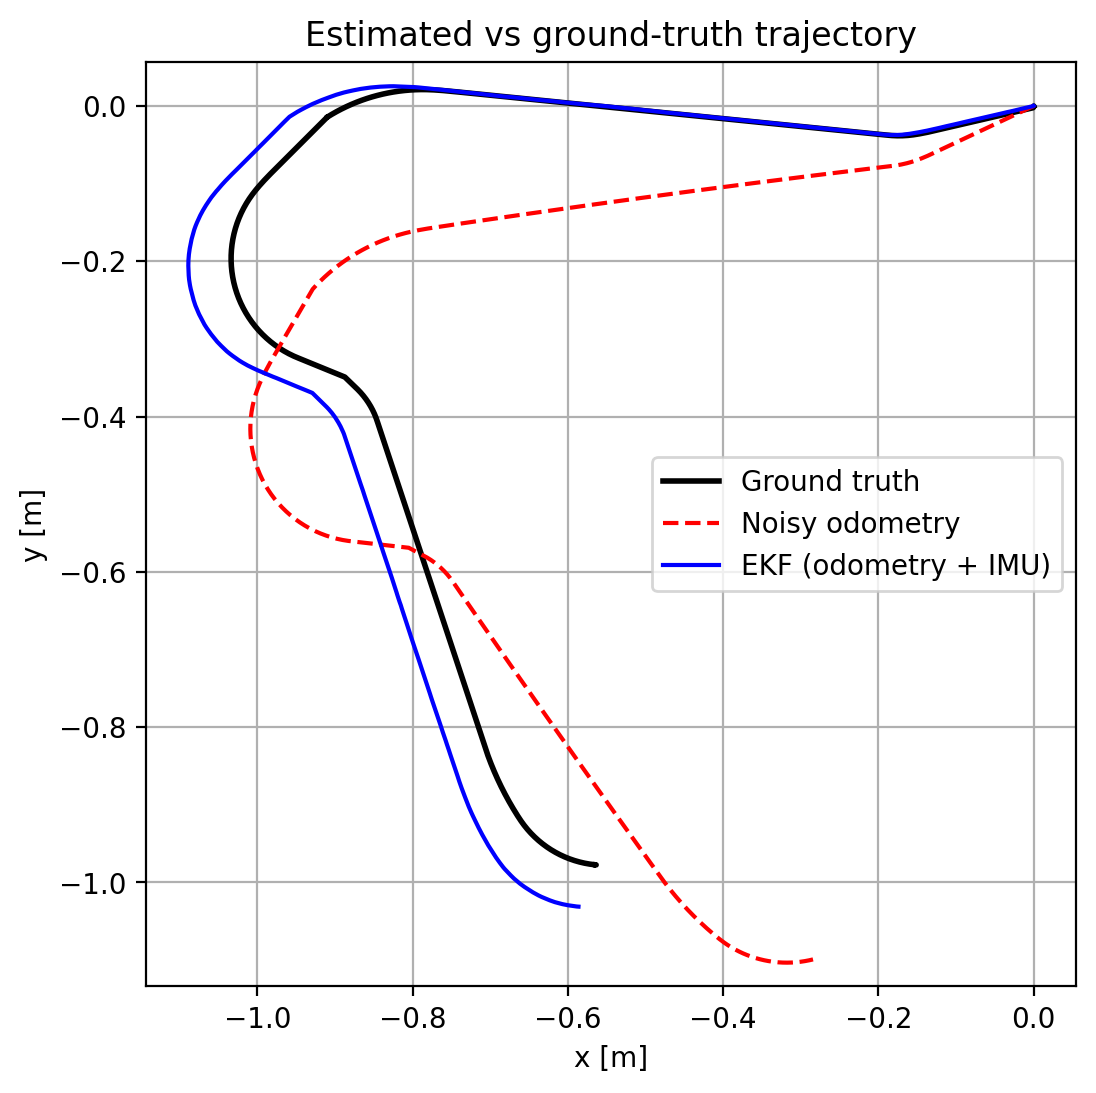
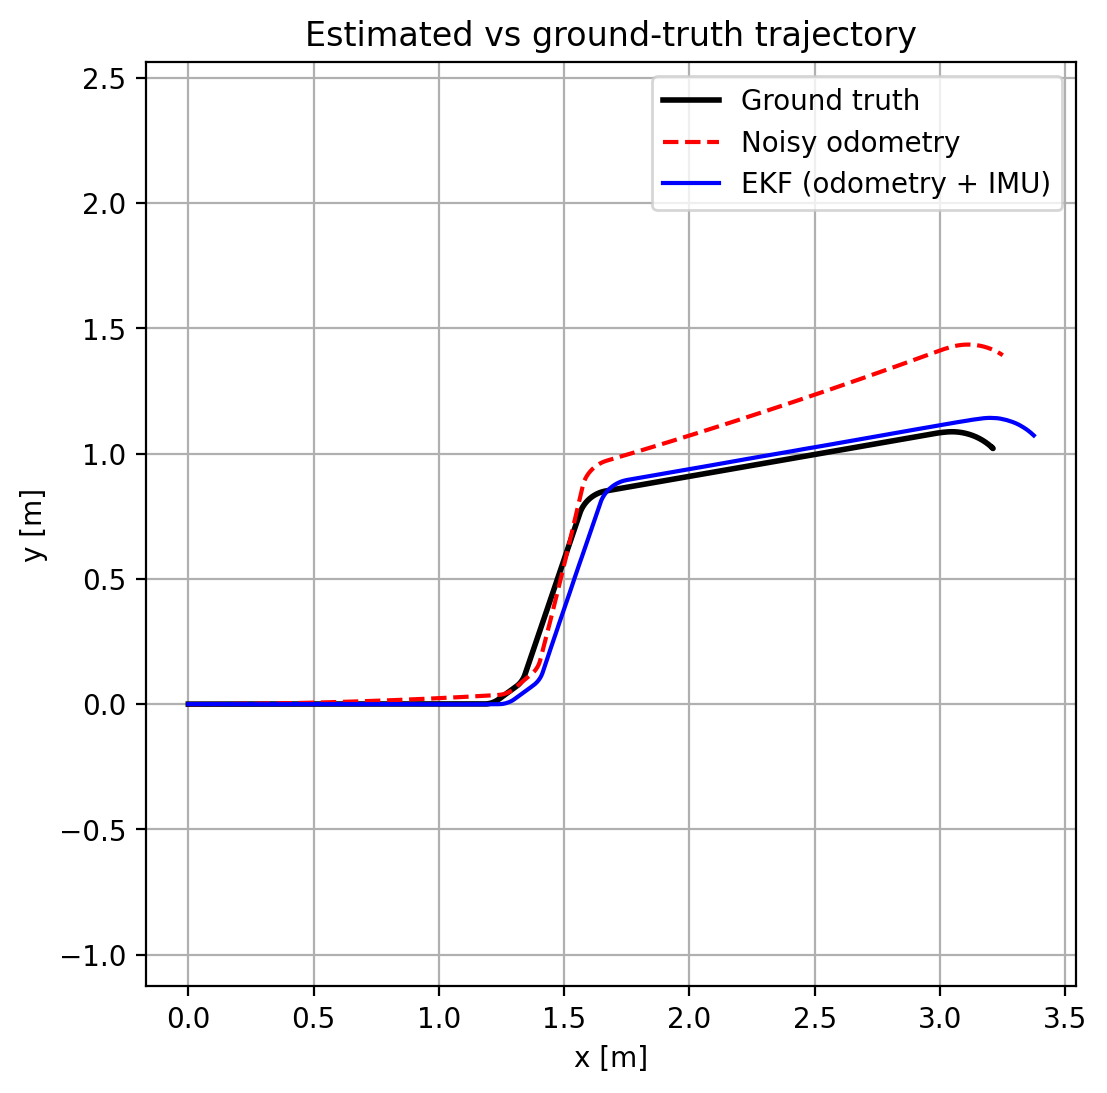
bugs: Fixing the odom bug and tested

diff --git a/README.md b/README.md
@@ -1,1 +1,278 @@
-# turtlebot_ws_as
+# Robot Localization in Simulation: EKF Fusing Noisy Odometry and IMU Yaw
+
+Assignment 1: Localization and Simulation Foundations
+Platform: ROS 2 Humble, Gazebo Classic 11, TurtleBot3 Burger
+
+
+---
+
+## 1. Summary
+
+A differential-drive TurtleBot3 Burger drives a short trajectory in the Gazebo
+`turtlebot3_world` environment. Its odometry and IMU heading are corrupted with
+known, motion-dependent errors, and an Extended Kalman Filter (EKF) estimates the
+robot pose `[x, y, yaw]` from those corrupted measurements only. The estimate is
+compared with the simulator's ground-truth pose. Ground truth is used for
+evaluation only and is never an input to the estimator.
+
+## 2. Problem Statement
+
+**Scenario:** tracking the 2D pose (position and heading) of a differential-drive
+robot in an indoor simulated environment, using noisy wheel odometry and a noisy
+IMU heading.
+
+**Why it is a problem:** wheel odometry is dead reckoning. Small errors in wheel
+size or wheel spacing accumulate with distance, so the estimated pose drifts away
+from the true pose without bound. The goal is to reduce that drift by fusing a
+second sensor and to measure how far the result is from ground truth.
+
+**Data used by the estimator**
+
+| Source | Topic | Used for |
+|---|---|---|
+| Noisy wheel odometry | `/odom_noisy` | linear and angular velocity (motion model) |
+| IMU | `/imu` | absolute heading (yaw) measurement |
+
+**Data used only for evaluation**
+
+| Source | Topic |
+|---|---|
+| Simulator ground-truth pose | `/ground_truth` |
+
+
+## 3. Package layout
+
+```
+my_localization/
+├── my_localization/
+│   ├── ekf_node.py        # EKF: predict from odometry, update from IMU yaw
+│   ├── noisy_odom.py      # adds simulated errors to odometry -> /odom_noisy
+│   └── evaluate.py        # compares estimates with ground truth, prints errors, saves plot
+├── launch/ekf_launch.py   # starts noisy_odom and ekf_node (EKF reads /odom_noisy)
+├── models/                # copy of the Burger model.sdf used (ground-truth plugin, encoder odometry)
+├── results/               # saved plots from the runs
+├── package.xml
+└── setup.py
+```
+
+## 4. Simulation Setup
+
+- **Robot and world:** TurtleBot3 Burger in `turtlebot3_world` (Gazebo Classic 11,
+  ROS 2 Humble). The robot spawns at about (-2.0, -0.5) m in the world.
+- **Odometry source:** the diff-drive plugin is set to encoder mode
+  (`<odometry_source>0</odometry_source>` in `model.sdf`). By default the plugin
+  uses the simulator's world pose instead, which would make the odometry a copy of
+  ground truth.
+- **Ground truth:** a `libgazebo_ros_p3d.so` plugin attached to `base_link`
+  publishes the true pose in the world frame on `/ground_truth` at 30 Hz.
+- **Sensor rates:** odometry 30 Hz, IMU 200 Hz, LiDAR 5 Hz (the LiDAR is not used
+  by this estimator).
+- **Why noise is added:** Gazebo's wheels barely slip and its IMU orientation has no
+  noise of its own, so the raw sensor data is almost perfect and there would be
+  nothing to estimate. The assignment asks to model uncertainty in the odometry and
+  in any sensor used, so errors are injected explicitly (section 5).
+
+## 5. Uncertainty Model
+
+All injected errors are **zero when the robot is stationary**, as for real wheel
+encoders. They are applied to the measurements only. The robot's real motion in
+Gazebo and the ground truth are untouched.
+
+### 5.1 Odometry errors (`noisy_odom.py`)
+
+The node reads the clean velocities `v` (forward) and `w` (turn rate) from `/odom`,
+corrupts them, and integrates them into a drifting pose published on `/odom_noisy`:
+
+```
+v_n = v * (1 + s)        + N(0, (0.02 * |v|)^2)
+w_n = w + b * v          + N(0, (0.02 * (|v| + |w|))^2)
+
+yaw += w_n * dt
+x   += v_n * dt * cos(yaw)
+y   += v_n * dt * sin(yaw)
+```
+
+| Parameter | Meaning | Real-world cause | Value |
+|---|---|---|---|
+| `s` (`v_scale_err`) | speed scale error | wheel radius error | `<fill: 0.05>` (5 %) |
+| `b` (`curv_bias`) | heading drift per metre driven | unequal wheel diameters | `<fill: 0.05>` rad/m |
+| 0.02 | random noise factor | slip, quantisation | fixed |
+
+These values are **assumptions** chosen as plausible for a small wheeled robot.
+They are not measured from hardware.
+
+### 5.2 IMU yaw noise (in `ekf_node.py`)
+
+The simulated IMU orientation has no noise, so Gaussian noise is added to the yaw
+before it is used as a measurement:
+
+```
+z = wrap(yaw_imu + offset + N(0, sigma^2)),   sigma = r_yaw = <fill: 0.05> rad (about 2.9 degrees)
+```
+
+`offset` aligns the IMU yaw frame with the odometry frame at start-up. The same
+`sigma` is used as the filter's measurement noise `R`, so the filter's assumption
+matches the simulated sensor.
+
+## 6. Localization Method: Extended Kalman Filter
+
+**State:** `x = [x, y, yaw]`, with covariance `P` (3x3), initialised from the first
+odometry pose and `P = 0.1 * I`.
+
+### 6.1 Predict step (on every `/odom_noisy` message)
+
+The motion model integrates the measured velocities over the time step `dt`:
+
+```
+x_k   = x   + v * dt * cos(yaw)
+y_k   = y   + v * dt * sin(yaw)
+yaw_k = wrap(yaw + w * dt)
+```
+
+The model is nonlinear in `yaw`, so it is linearised with the Jacobian:
+
+```
+F = [ 1  0  -v*dt*sin(yaw) ]
+    [ 0  1   v*dt*cos(yaw) ]
+    [ 0  0   1             ]
+
+P = F P F^T + Q,      Q = diag(q_xy, q_xy, q_yaw) * dt
+```
+
+`Q` is the process noise: how little the filter trusts the motion model. Scaling
+it by `dt` makes the growth depend on elapsed time, not on the message rate.
+
+### 6.2 Update step (on every `/imu` message)
+
+The IMU measures only yaw, so `H = [0 0 1]`:
+
+```
+innovation   y = wrap(z - yaw)
+S = H P H^T + R,       R = r_yaw^2
+K = P H^T S^-1
+x = x + K y
+P = (I - K H) P
+```
+
+The gain `K` weighs the prediction against the IMU. A large `r_yaw` makes the
+filter rely on the odometry, a small one makes it follow the IMU.
+
+### 6.3 Output
+
+The pose and covariance are published as `geometry_msgs/PoseWithCovarianceStamped`
+on `/ekf_pose` in the `odom` frame. The filter does not publish a TF, to avoid
+clashing with the simulator's own `odom` transform.
+
+### 6.4 Filter parameters
+
+| Parameter | Meaning | Value |
+|---|---|---|
+| `q_xy` | position process noise (per second) | `<fill: 0.001>` |
+| `q_yaw` | heading process noise (per second) | `<fill: 0.02>` |
+| `r_yaw` | IMU yaw measurement noise (std, rad) | `<fill: 0.05>` |
+
+
+## 7. Evaluation Method (`evaluate.py`)
+
+The evaluator subscribes to `/ground_truth`, `/odom_noisy` and `/ekf_pose`. When
+stopped with Ctrl+C it:
+
+1. Shifts each trajectory so it starts at (0, 0), because the estimators work in
+   the `odom` frame and the ground truth is in the world frame. This assumes all
+   three start at the same pose with the same heading, which holds at the spawn point.
+2. Interpolates each estimate to the ground-truth timestamps.
+3. Computes the position error `e = sqrt((x_est - x_gt)^2 + (y_est - y_gt)^2)` at
+   each timestamp.
+4. Prints RMSE, final error and maximum error for the noisy odometry and for the EKF.
+5. Saves `trajectory.png`: estimated and ground-truth paths, labelled axes in
+   metres, and a legend.
+
+Only `evaluate.py` reads `/ground_truth`. This can be checked with
+`grep -rn ground_truth src/my_localization --include=*.py`.
+
+## 8. How to Run
+
+Requirements: Ubuntu 22.04, ROS 2 Humble, Gazebo Classic, TurtleBot3 packages
+(humble branch) built in `~/turtlebot_ws_as`, `python3-matplotlib`.
+
+```bash
+git clone git@github.com:BhoobeshH/turtlebot_ws_as.git
+cd ~/turtlebot_ws_as
+colcon build --symlink-install
+source install/setup.bash
+export TURTLEBOT3_MODEL=burger
+```
+
+Run each command in its own terminal (source the workspace in each):
+
+```bash
+# 1. simulation
+ros2 launch turtlebot3_gazebo turtlebot3_world.launch.py
+
+# 2. noisy odometry + EKF
+ros2 launch my_localization ekf_launch.py
+
+# 3. evaluator (start before driving; plots are saved in the current folder)
+cd ~/turtlebot_ws_as/src/my_localization/results
+ros2 run my_localization evaluate
+
+# 4. drive the robot
+ros2 run turtlebot3_teleop teleop_keyboard
+
+# 5 view in rviz
+ros2 run rviz2 rviz2
+```
+**Set the Fixed Frame in RViz as odom**
+
+**Add PoseWithCovariance in topic ekf_pose**
+
+Drive a path of several metres with a few turns, stop the robot, then press Ctrl+C in
+the evaluator terminal. It prints the errors and saves `trajectory.png`.
+
+## 9. Results
+
+
+
+| Method | RMSE [m] | Final error [m] | Max error [m] |
+|---|---|---|---|
+| Noisy odometry (dead reckoning) | `0.224` | `0.374` | `0.375` |
+| EKF (odometry + IMU yaw) | `0.112` | `0.171` | `0.171` |
+
+
+
+## 10. Analysis
+
+**Why the noisy odometry drifts.** Two errors act on it. The speed scale error `s`
+stretches every distance by a constant fraction, giving a position error of about
+`s * d` after driving `d` metres. The curvature bias `b` turns the heading by
+`b * d` radians after `d` metres, so on a straight drive the sideways error grows as
+`b * d^2 / 2`. For example, `d = 4 m`, `b = 0.05 rad/m` gives about 0.4 m. The
+heading error also rotates all later motion, which is why dead reckoning gets worse
+the further and the more the robot turns.
+
+**Why the EKF is better.** The IMU gives an absolute heading, so the heading error
+does not accumulate and the curvature bias is removed. The sideways drift is largely
+eliminated.
+
+**What error remains.** The IMU measures heading only, so nothing in the filter
+corrects the speed scale error. The remaining position error is therefore close to
+`s * d`, about 5 % of the distance driven. `<fill: compare with your result, e.g. path 4.3 m x 5 % = 0.22 m against a measured final error of 0.22 m>`
+
+**Uncertainty growth.** The covariance of `x` and `y` grows steadily, because no
+sensor measures position directly. This is correct behaviour for this design and
+is visible as a growing uncertainty ellipse when `/ekf_pose` is plotted in RViz.
+
+## 11. Limitations
+
+- Only heading is corrected. Position error still grows with distance. Bounding it
+  needs an absolute position measurement, for example scan matching against a map
+  (AMCL or a particle filter) using the LiDAR.
+- The simulated IMU yaw is unbiased. A real IMU also drifts, so the benefit seen
+  here would be smaller on hardware.
+- The noise levels are assumed, not measured. Results depend on them.
+- The noise is random, so exact numbers change from run to run. Results come from a
+  small number of runs on short trajectories.
+- The evaluator aligns trajectories by their start point only. This is valid because
+  every trajectory starts at the spawn pose with the same heading.
+- Only position error is reported. Heading error could be added in the same way.
+
